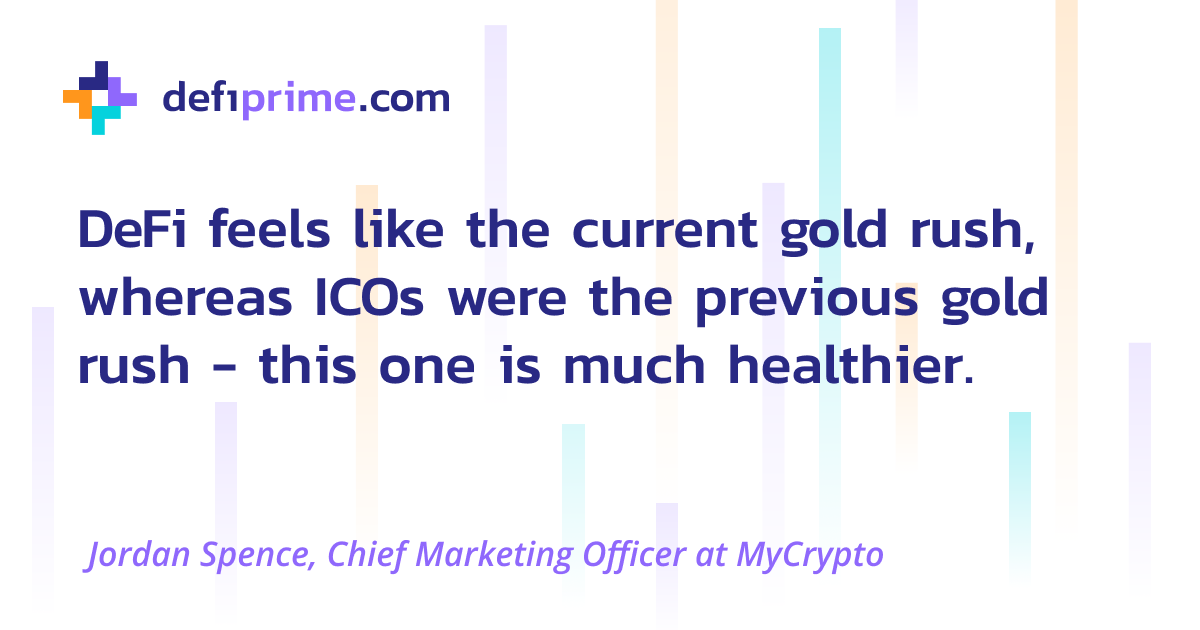
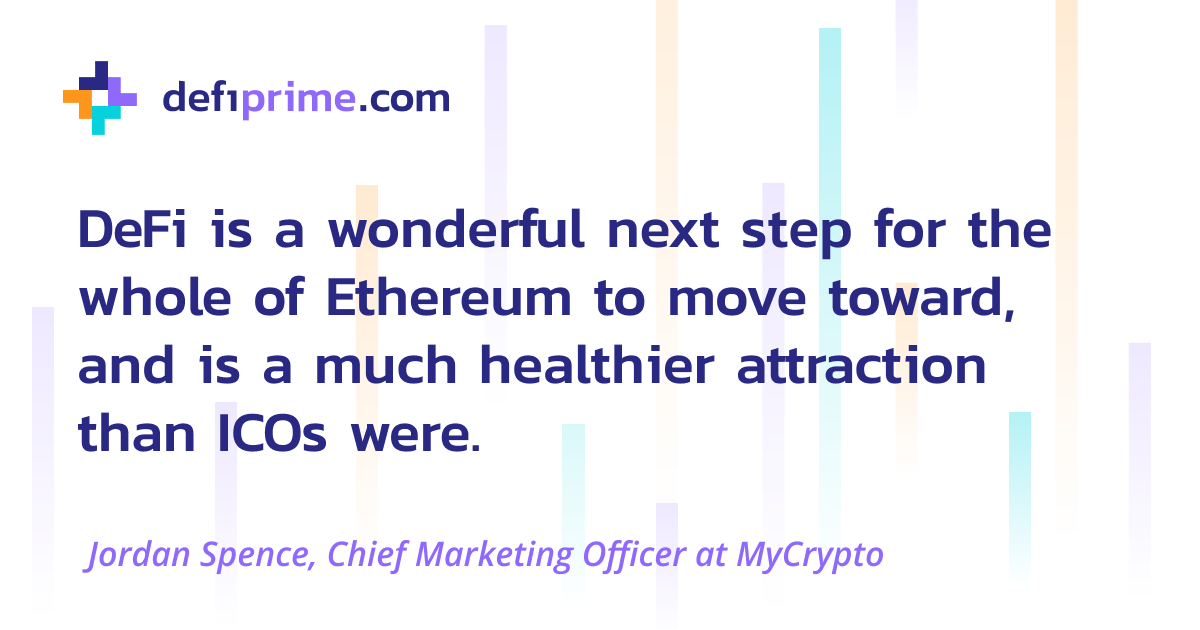
fixes

Changed region(s): [[0.1233, 0.3317, 0.8942, 0.5127], [0.0617, 0.5429, 0.8325, 0.6333], [0.0617, 0.6333, 0.4008, 0.7238]]

diff --git a/collections/_posts/2019-11-12-Mycrypto.md b/collections/_posts/2019-11-12-Mycrypto.md
@@ -5,23 +5,23 @@ title:  MyCrypto
 permalink: mycrypto
 h1title: "MyCrypto - gateway to the Ethereum blockchain"
 pagetitle: "MyCrypto - gateway to the Ethereum blockchain"
-metadescription: "Jordan shared the backstory of MyCrypto and talked about how's the next step for the Ethereum looks like."
+metadescription: "Jordan shared the backstory of MyCrypto and talked about what the next steps for the Ethereum will look like"
 category: blog
 featured-image: /images/blog/mycrypto-og.png
 quote: /images/blog/mycrypto-quote.png
-intro: "Jordan shared the backstory of MyCrypto and talked about how's the next step for the Ethereum looks like."
+intro: "Jordan shared the backstory of MyCrypto and talked about what the next steps for the Ethereum will look like"
 author: Defiprime
 ---
-Jordan shared the backstory of MyCrypto and talked about how's the next step for the Ethereum looks like.
+Jordan shared the backstory of MyCrypto and talked about what the next steps for the Ethereum will look like.
 
 
 ### Hello! What's your background, and what are you working on?
 
-I’m Jordan Spence and I’m the Chief Marketing Officer at [MyCrypto](https://mycrypto.com). Before getting into the blockchain space, I worked in the gaming and esports industries. I had been aware of Bitcoin all the way back in 2013 and even bought a fraction, but it didn’t take me anywhere and I quickly forgot about it. A friend of mine mentioned Ethereum to me one night in March 2017, right as the price of ETH was starting to take off. I quickly bought some, and quickly started to invest time in learning more about Ethereum and what it offered.
+I’m Jordan Spence and I’m the Chief Marketing Officer at [MyCrypto](https://mycrypto.com). Before getting into the blockchain space, I worked in the gaming and esports industries. I had been aware of Bitcoin all the way back in 2013 and even bought a fraction, but it didn’t take me anywhere and I quickly forgot about it. A friend of mine mentioned Ethereum to me one night in March 2017, right as the price of ETH was starting to take off.  I quickly bought some and immediately started investing time into learning more about Ethereum and what it offered.
 
 I eventually ran out of spare cash to invest in ETH, so I figured the next best step would be to learn as much as possible and see if I can get involved in the industry. I decided to reach out to MyEtherWallet, mostly by happenstance, and ended up becoming the CMO. I then stuck with the team throughout the brand fork to MyCrypto, and here we are!
 
-MyCrypto is a gateway to the Ethereum blockchain. MyCrypto helps users interact with the blockchain, whether it’s by creating an address for their assets, managing their existing addresses, buying/selling/swapping assets, and offers a whole other slough of tools and features that are useful to various segments of the Ethereum user base.
+MyCrypto is a gateway to the Ethereum blockchain. MyCrypto helps users interact with the blockchain, whether it’s by creating an address for their assets, managing their existing addresses or buying/selling/swapping assets, and offers a whole other slough of tools and features that are useful to various segments of the Ethereum user base.
 
 Throughout MyCrypto’s life, we have striven to constantly improve the methods of interaction with both MyCrypto and the Ethereum blockchain - we do this through better UI/UX, better education, and better security (both on our end and enabling better security for users).
 
@@ -32,29 +32,30 @@ Throughout MyCrypto’s life, we have striven to constantly improve the methods 
 MyCrypto is the brainchild of our CEO, [Taylor Monahan](https://twitter.com/tayvano_). She originally helped launch MyEtherWallet back in the day, and we eventually split off to MyCrypto.
 Taylor participated in the Ethereum presale years ago and when it came time to move her assets to a safe place, the only available instructions told her to use the command prompt on her computer. She then realized a need for a proper GUI, which led to a site called MyEtherWallet being developed.
 
-Over time, Taylor and her co-founder constantly iterated and improved, adding features as requested. The cycle of feedback to development was quick, and the community quickly gathered to the site as the most accessible option for creating and managing ETH addresses.
+Over time, Taylor and her co-founder constantly iterated and improved, adding features as requested. The cycle of feedback to development was rapid, and the community quickly gathered to the site as the most accessible option for creating and managing ETH addresses.
 
-The site continued to grow and eventually, a split between Taylor and her co-founder occurred. Most of the team stayed on with Taylor to start MyCrypto, which launched in February 2018.
+The site continued to grow and there was ultimately a split between Taylor and her co-founder occurred. Most of the team stayed on with Taylor to start MyCrypto, which launched in February 2018.
 
 ### What's your business model?
 
 
-To date, MyCrypto has had a few streams of revenue that we’ve shifted to adapt as the industry shifts. One of our main routes is through our swap functionality - every transaction you swap via MyCrypto yields a small fee. Additionally, we encourage users to purchase Ledger and Trezor hardware wallets and we receive a fee for every purchase through our affiliate links.
+To date, MyCrypto has had a few streams of revenue that we adapt as the industry shifts. One of our main routes is through our swap functionality - every transaction you swap via MyCrypto yields a small fee. Additionally, we encourage users to purchase Ledger and Trezor hardware wallets and we receive a fee for every purchase through our affiliate links.
 
 These methods aren’t sustainable long term and we’re actively exploring other streams of revenue that make sense for both us and our users.
 
-MyCrypto’s main differentiating factor from competitors is the fact that our products are lightweight, accessible, and secure. Everything you need to do, you can do it quickly and with confidence.
+The main factors that differentiate MyCrypto from competitors are how lightweight, accessible, and sure our products are. Everything you need to do, you can do it quickly and with confidence.
 
-In an ideal world, the target market for MyCrypto would be everyone… although that’s definitely a cop out. Right now it feels like we have a large portion of the users who are active within the Ethereum ecosystem - the developers, the maximalists, the educators. Having this core Ethereum user-base is great, and I’d like to expand to those who are less knowledgeable or new to the space. It’d be great for them to start with MyCrypto so they can learn good habits from the start and reduce as much risk as possible.
+In an ideal world, the target market for MyCrypto would be everyone… although that’s definitely a cop-out. Right now it feels like we have a large portion of the users who are active within the Ethereum ecosystem - the developers, the maximalists, the educators. Having this core Ethereum user-base is great, and I’d like to expand to those who are less knowledgeable or new to the space. It’d be great for them to start with MyCrypto so they can learn good habits from the beginning and reduce as much risk as possible.
 
 ### What are your goals for the future?
 
 My personal goal is for MyCrypto to eventually be the only place you need to go to do anything related to Ethereum, whether it’s to make a new address, buy/sell, interact with dapps, smart contracts, etc - anything. And to start with Ethereum, but eventually move onto Bitcoin and other cryptocurrencies, because after all… we are named MyCrypto. That’s a long way away, though.
+
 ### What are your future thoughts for the DeFi market?
 
-DeFi is a wonderful next step for the whole of Ethereum to move towards. DeFi feels like the current gold rush, whereas ICOs were the previous gold rush - this one is much healthier.
+DeFi is a wonderful next step for the whole of Ethereum to move toward, and is a much healthier attraction than ICOs were.
 
-There’s a unique aspect to this, though, that I wonder about. When it comes to investing and gaining interest, I feel like it’s set-and-forget for most people. It’s not something they’re using daily, it’s not something they think about daily. In that sense, DeFi isn’t a daily driver. It’ll bring in a lot of new people and it will make a handful of organizations become successful, but the rest of the organizations trying to build new things in this industry are going to need some other high tide that raises all ships. ICOs were the previous high tide, and I think DeFi is more of a low tide. What will bring on the next high tide? I’d like to know!
+There’s a unique aspect to this, though, that I wonder about. When it comes to investing and gaining interest, I feel like it’s set-and-forget for most people. It’s not something they’re using daily; it’s not something they think about daily. In that sense, DeFi isn’t a daily driver. It’ll bring in a lot of new people and it will make a handful of organizations become successful, but the rest of the organizations trying to build new things in this industry are going to need some other high tide that raises all ships. ICOs were the previous high tide, and I think DeFi is more of a low tide. What will bring on the next high tide? I’d like to know!
 
 ### Where can we go to learn more?
 
